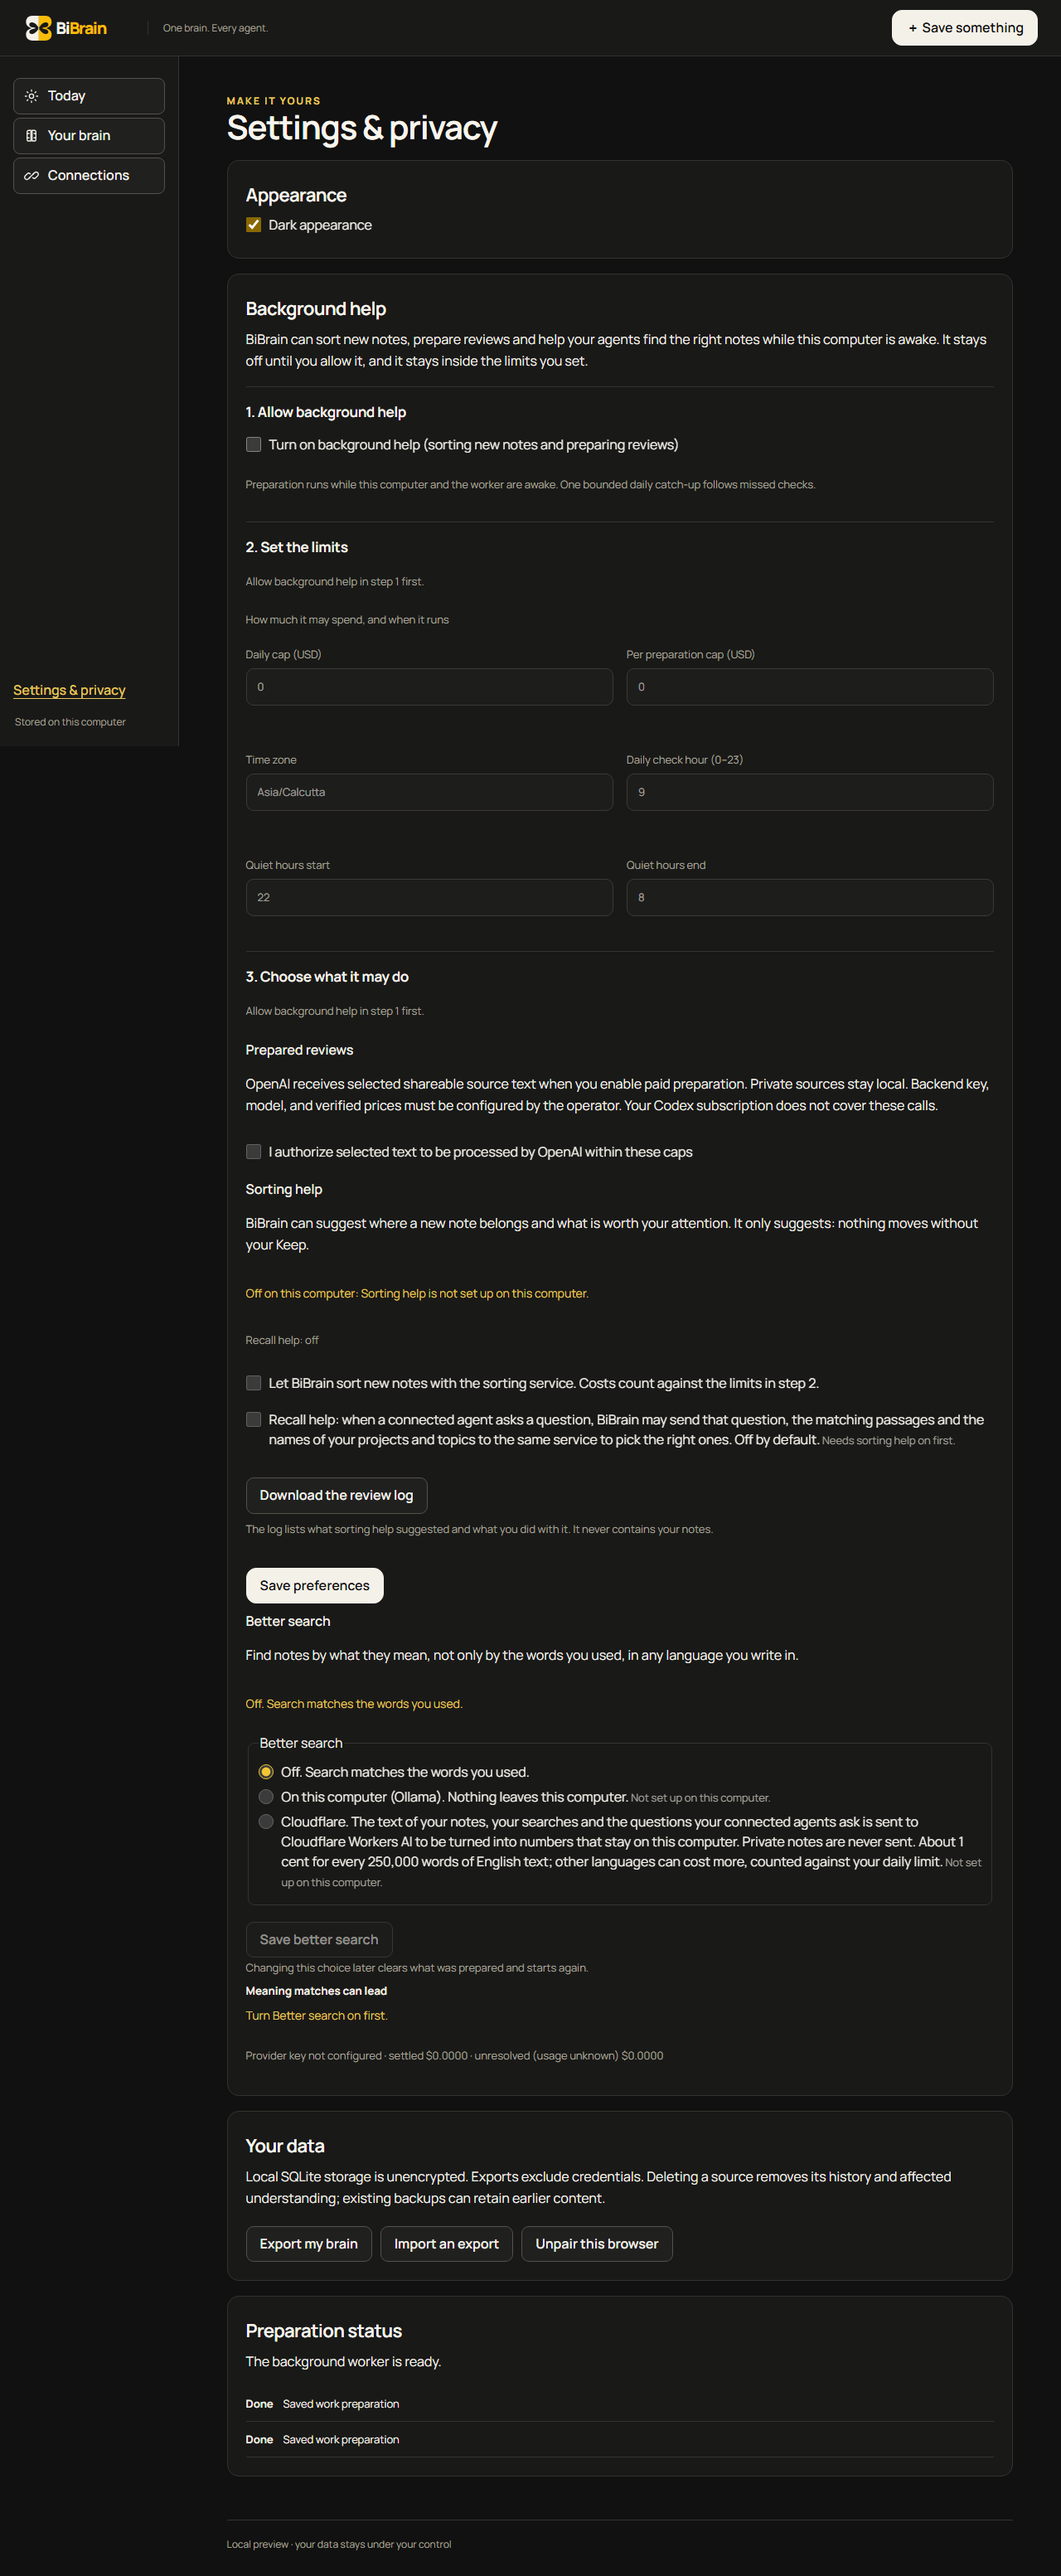
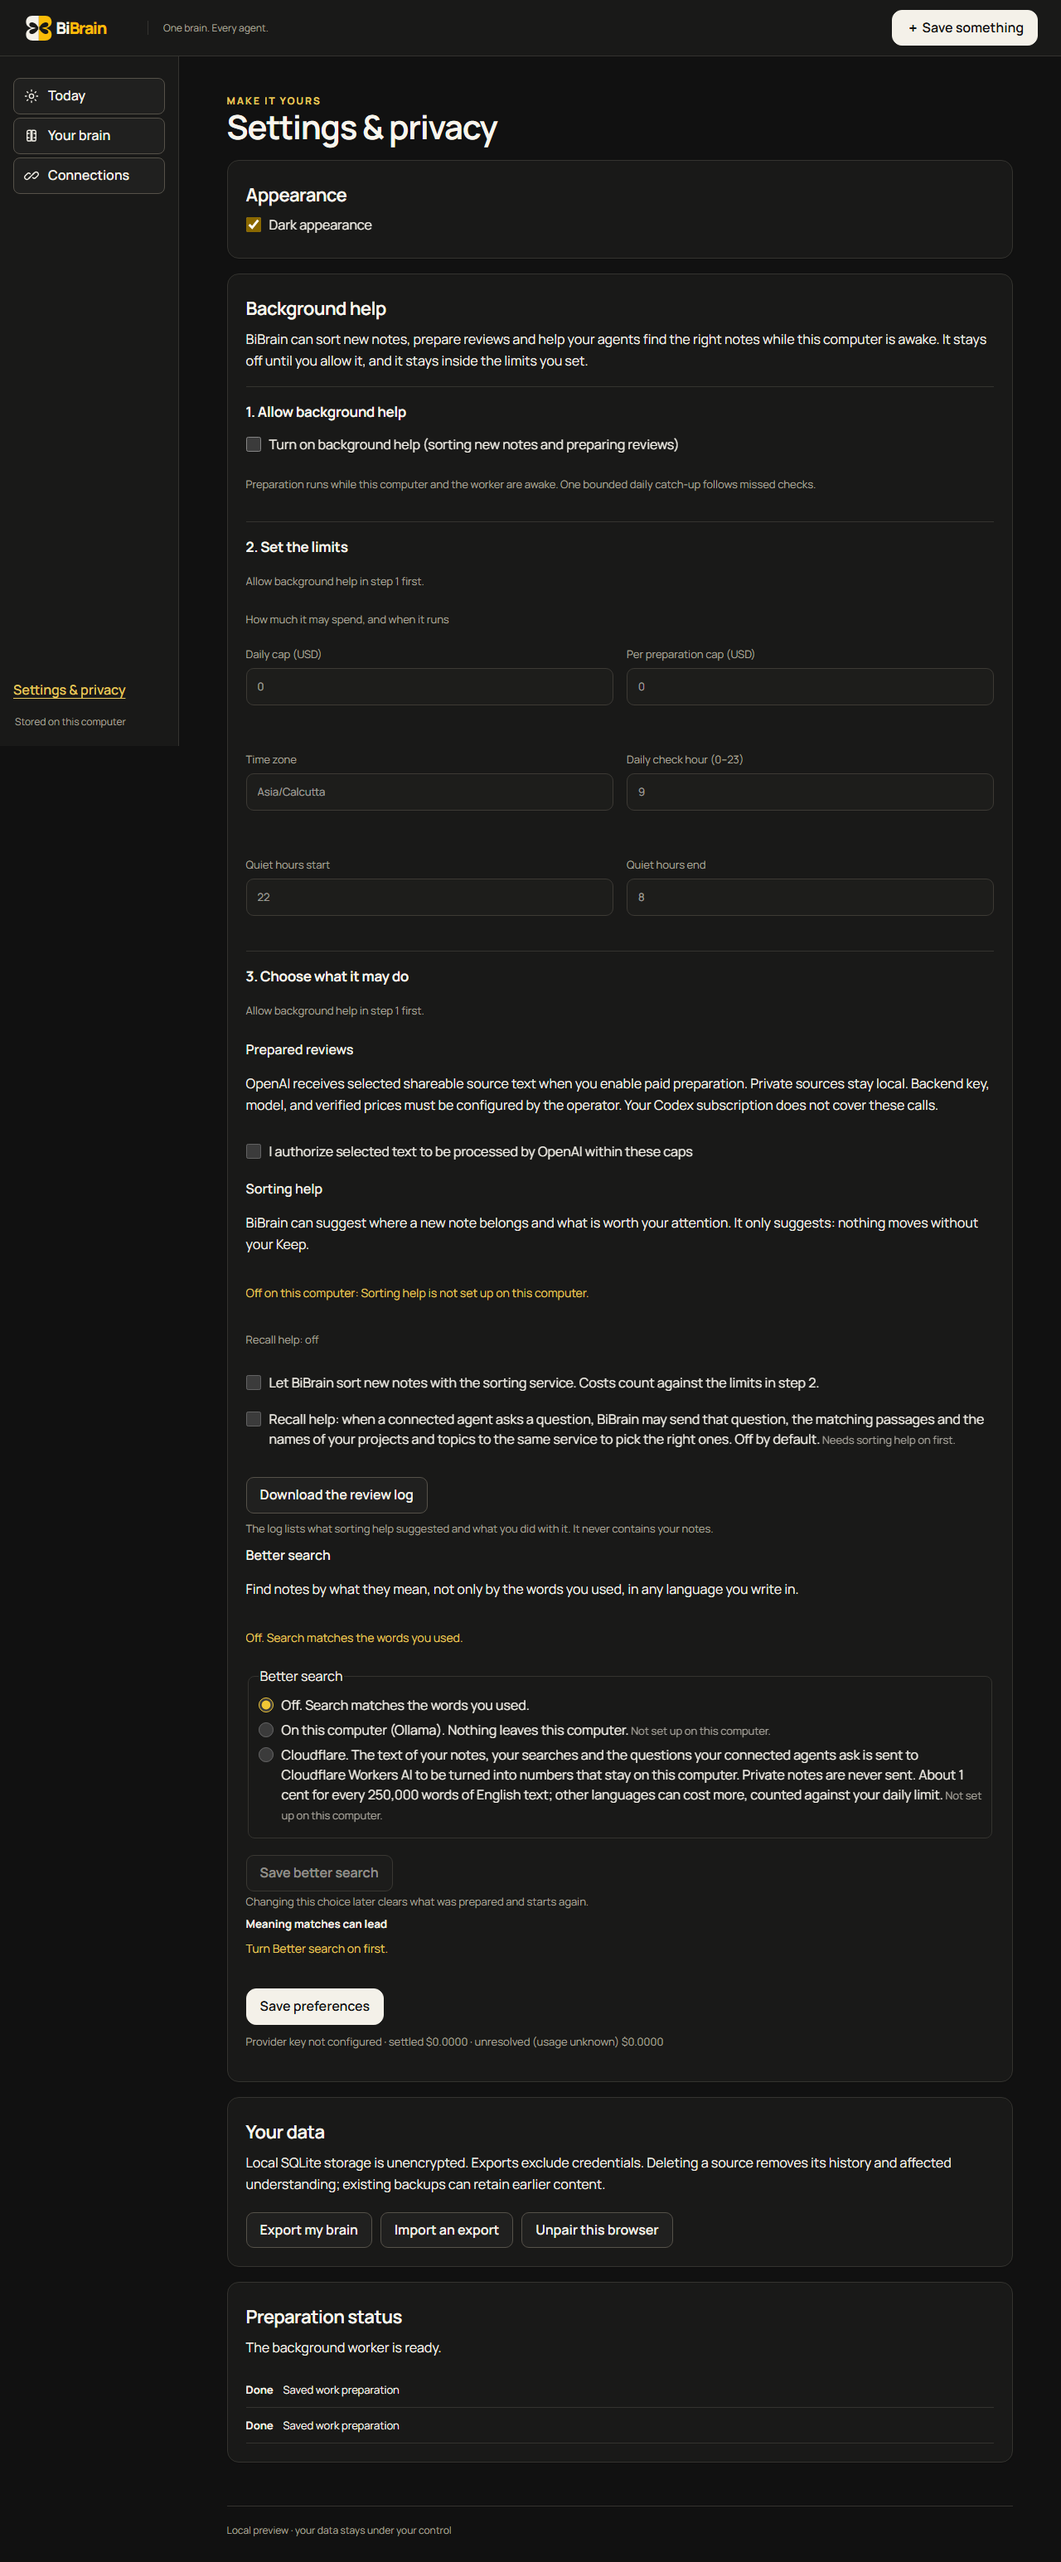
fix(settings): Save preferences ends the Background help card; link step 3 note to its controls; rail Settings marks the current page

diff --git a/apps/web/src.tsx b/apps/web/src.tsx
@@ -1263,6 +1263,7 @@ function App() {
             </nav>
             <button
               className="link settings"
+              aria-current={nav === "Settings" ? "page" : undefined}
               onClick={() => setNav("Settings")}
               disabled={!paired || demo}
             >
@@ -1788,7 +1789,7 @@ function App() {
                   </form>
                   <section className="bh-step" aria-labelledby="bh-choices-h">
                     <h3 id="bh-choices-h">3. Choose what it may do</h3>
-                    {stepNote(3, steps) ? <p className="muted">{stepNote(3, steps)}</p> : null}
+                    {stepNote(3, steps) ? <p className="muted" id="bh-choices-note">{stepNote(3, steps)}</p> : null}
                     {/* These boxes sit outside the form (a form cannot hold Better search's own form), so they mark the preferences as edited themselves. */}
                     <div
                       className="bh-consents"
@@ -1810,6 +1811,7 @@ function App() {
                             type="checkbox"
                             checked={prefs.provider_enabled}
                             disabled={choiceDisabled(prefs.provider_enabled, steps.choicesOpen && !today.status.spend?.blocked)}
+                            aria-describedby={steps.choicesOpen || !stepNote(3, steps) ? undefined : "bh-choices-note"}
                             onChange={(e) => setPrefs({ ...prefs, provider_enabled: e.target.checked })}
                           />{" "}
                           I authorize selected text to be processed by OpenAI within these caps
@@ -1846,6 +1848,7 @@ function App() {
                                   type="checkbox"
                                   checked={prefs.decision_provider_enabled}
                                   disabled={choiceDisabled(prefs.decision_provider_enabled, steps.choicesOpen, !sorting.configured)}
+                                  aria-describedby={steps.choicesOpen || !stepNote(3, steps) ? undefined : "bh-choices-note"}
                                   onChange={(e) => {
                                     sortingConsentTouched.current = true;
                                     setPrefs({ ...prefs, decision_provider_enabled: e.target.checked });
@@ -1858,6 +1861,7 @@ function App() {
                                   type="checkbox"
                                   checked={recallHelp}
                                   disabled={choiceDisabled(recallHelp, steps.choicesOpen, !(sorting.configured && prefs.decision_provider_enabled))}
+                                  aria-describedby={steps.choicesOpen || !stepNote(3, steps) ? undefined : "bh-choices-note"}
                                   onChange={(e) => {
                                     recallConsentTouched.current = true;
                                     setRecallHelp(e.target.checked);
@@ -1893,11 +1897,6 @@ function App() {
                           </small>
                         </section>
                       ) : null}
-                      <div className="actions">
-                        <button className="primary" type="submit" form="background-help-form" disabled={busy}>
-                          Save preferences
-                        </button>
-                      </div>
                     </div>
                     {better ? (
                       <section aria-labelledby="bh-search-h">
@@ -1996,6 +1995,11 @@ function App() {
                       </section>
                     ) : null}
                   </section>
+                  <div className="actions">
+                    <button className="primary" type="submit" form="background-help-form" disabled={busy}>
+                      Save preferences
+                    </button>
+                  </div>
                   <p className="muted">
                     {`Provider key ${
                       today.status.provider_configured

diff --git a/docs/design/plan-11/REPORT.md b/docs/design/plan-11/REPORT.md
@@ -42,7 +42,7 @@ All 63 style snapshots differ, because every signed-in screen's header changed, 
 | 08 to 10 Your brain, 11 to 12 Connections, 17 to 19 dialogs (desktop and tablet) | Header band only (about 0.04 to 0.09% of pixels): the header's right side is now one group. | 9a4f56c |
 | Same states at phone | Header is one row (69px instead of 103px); everything below moves up by that amount. Dialog captures are viewport-only, so their backdrops and the rows behind them show larger pixel counts (up to 36% on the Project dialog) from that shift, not from a change in the dialog. | 9a4f56c |
 | 13, 14, 20 Connections after Add, Set up by hand, handoff | A three-step checklist replaces the long setup paragraph; the long instructions are behind Details. Tile is shorter (page 13px shorter at 1280, 150px at 390). | e2324fa |
-| 15, 16 Settings | One "Background help" card in three steps instead of three cards (page 497px taller at 1280, because every step is now shown with its explanation and gating hints). | 212a7d9, 5c4d0fd |
+| 15, 16 Settings | One "Background help" card in three steps instead of three cards (page 497px taller at 1280, because every step is now shown with its explanation and gating hints). After the final review, "Save preferences" moved to the end of the card, below Better search, and the Settings pictures were retaken. | 212a7d9, 5c4d0fd |
 | Every state | Text sizes are rem; at the default browser size they equal the old pixel values. | e91e0f6 |
 
 Not in the table, by design: no first-run, sample-body, Today-body, Your brain-body or dialog-body change. The first-run screen has no pixel change at all.
